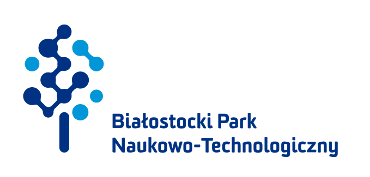
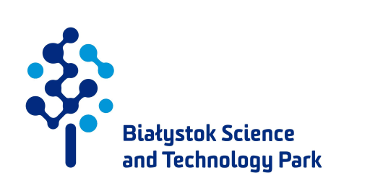
Bialystok - change venue's image

Changed region(s): [[0.2973, 0.6215, 0.9216, 0.904], [0.0595, 0.113, 0.327, 0.8757]]

diff --git a/bialystok.html b/bialystok.html
@@ -204,7 +204,7 @@
 
 
        <h3>Venue</h3>
-        <p style="clear:both;"><a href="http://bpnt.bialystok.pl/" style="float:right; margin: 0 0 10px 10px; border:0;"><img src="images/bialystok/bpnt.png" target="_blank" alt="BPNT"></a><a href="http://bpnt.bialystok.pl/"><strong>The Białystok Science & Technology Par</strong></a> supports creative people to turn their idea into an technology advanced business by providing them board range of facilities and services.</p>
+        <p style="clear:both;"><a href="http://bpnt.bialystok.pl/" style="float:right; margin: 0 0 10px 10px; border:0;"><img src="images/bialystok/bpnt.png" target="_blank" alt="BPNT"></a><a href="http://bpnt.bialystok.pl/"><strong>The Bialystok Science & Technology Park</strong></a> supports creative people to turn their idea into an technology advanced business by providing them board range of facilities and services.</p>
        <h3>Sponsors</h3>
 
        <p>The Rails Girls Bialystok event is possible thanks to our amazing sponsors</p><p>
